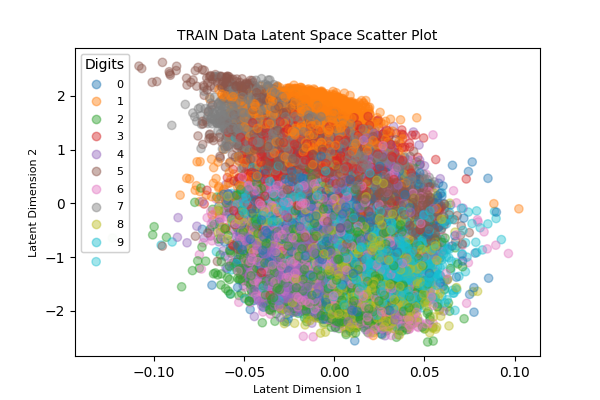
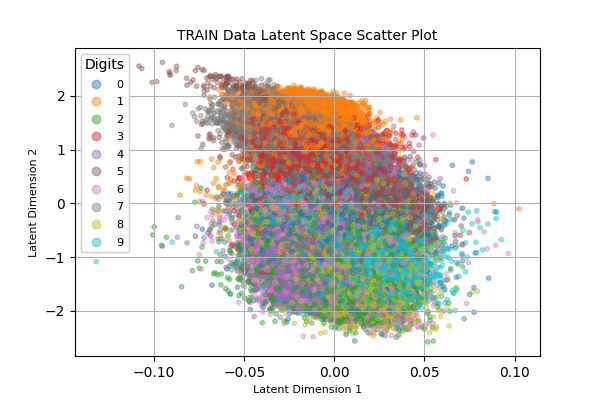
software prompting

diff --git a/source/ch6-llm/tuning/soft_prompting/train.py b/source/ch6-llm/tuning/soft_prompting/train.py
@@ -1,0 +1,149 @@
+import torch
+from torch.optim import Adam
+from datasets import load_dataset
+import matplotlib.pyplot as plt
+from model import SoftPromptTuning
+import os
+from tqdm import tqdm
+
+def save_checkpoint(model, optimizer, epoch, loss, filepath='best.pt'):
+    state = {
+        'epoch': epoch,
+        'model_state_dict': model.state_dict(),
+        'optimizer_state_dict': optimizer.state_dict(),
+        'loss': loss,
+    }
+    torch.save(state, filepath)
+
+
+def load_checkpoint(filepath='best.pt'):
+    if os.path.isfile(filepath):
+        checkpoint = torch.load(filepath)
+        return checkpoint
+    else:
+        return None
+
+
+def train(model, train_dataset, val_dataset, epochs=3, lr=5e-5, checkpoint_path='best.pt', patience=3):
+    optimizer = Adam([model.soft_prompt_embeddings], lr=lr)
+    criterion = torch.nn.CrossEntropyLoss()
+
+    # Load checkpoint if it exists
+    checkpoint = load_checkpoint(checkpoint_path)
+    start_epoch = 0
+    best_val_loss = float('inf')
+    patience_counter = 0
+    if checkpoint:
+        model.load_state_dict(checkpoint['model_state_dict'])
+        optimizer.load_state_dict(checkpoint['optimizer_state_dict'])
+        start_epoch = checkpoint['epoch'] + 1
+        best_val_loss = checkpoint['loss']
+
+    train_losses = []
+    val_losses = []
+
+    for epoch in tqdm(range(start_epoch, epochs), desc="Training Epochs"):
+        model.train()
+        epoch_train_loss = 0
+        for batch in train_dataset:
+            inputs = model.tokenizer(batch['context'], return_tensors='pt', padding=True, truncation=True)
+            labels = model.tokenizer(batch['answers']['text'][0], return_tensors='pt', padding=True,
+                                     truncation=True).input_ids
+
+            optimizer.zero_grad()
+            outputs = model(inputs.input_ids, attention_mask=inputs.attention_mask)
+            logits = outputs.logits[:, model.soft_prompt_len:-1, :].contiguous()
+
+            # Ensure the logits and labels have the same shape
+            logits = logits.view(-1, logits.size(-1))
+            labels = labels.view(-1)
+
+            # Ensure labels and logits have the same length
+            if logits.size(0) != labels.size(0):
+                min_size = min(logits.size(0), labels.size(0))
+                logits = logits[:min_size]
+                labels = labels[:min_size]
+
+            loss = criterion(logits, labels)
+
+            loss.backward()
+            optimizer.step()
+
+            epoch_train_loss += loss.item()
+
+        epoch_train_loss /= len(train_dataset)
+        train_losses.append(epoch_train_loss)
+
+        # Validation
+        model.eval()
+        epoch_val_loss = 0
+        with torch.no_grad():
+            for batch in val_dataset:
+                inputs = model.tokenizer(batch['context'], return_tensors='pt', padding=True, truncation=True)
+                labels = model.tokenizer(batch['answers']['text'][0], return_tensors='pt', padding=True,
+                                         truncation=True).input_ids
+
+                outputs = model(inputs.input_ids, attention_mask=inputs.attention_mask)
+                logits = outputs.logits[:, model.soft_prompt_len:-1, :].contiguous()
+
+                # Ensure the logits and labels have the same shape
+                logits = logits.view(-1, logits.size(-1))
+                labels = labels.view(-1)
+
+                # Ensure labels and logits have the same length
+                if logits.size(0) != labels.size(0):
+                    min_size = min(logits.size(0), labels.size(0))
+                    logits = logits[:min_size]
+                    labels = labels[:min_size]
+
+                loss = criterion(logits, labels)
+
+                epoch_val_loss += loss.item()
+
+        epoch_val_loss /= len(val_dataset)
+        val_losses.append(epoch_val_loss)
+
+        print(f"Epoch: {epoch + 1}, Train Loss: {epoch_train_loss}, Val Loss: {epoch_val_loss}")
+
+        # Checkpoint saving
+        if epoch_val_loss < best_val_loss:
+            best_val_loss = epoch_val_loss
+            save_checkpoint(model, optimizer, epoch, best_val_loss, checkpoint_path)
+            patience_counter = 0
+        else:
+            patience_counter += 1
+
+        # Early stopping
+        if patience_counter >= patience:
+            print("Early stopping triggered")
+            break
+
+    # Plotting learning curves
+    plt.figure()
+    plt.plot(train_losses, label='Train Loss')
+    plt.plot(val_losses, label='Validation Loss')
+    plt.xlabel('Epoch')
+    plt.ylabel('Loss')
+    plt.legend()
+    plt.show()
+
+
+# Example usage
+def main():
+    model = SoftPromptTuning()
+
+    # Add a new pad_token to the tokenizer
+    model.tokenizer.add_special_tokens({'pad_token': '[PAD]'})
+    model.model.resize_token_embeddings(len(model.tokenizer))
+
+    # Load SQuAD dataset
+    squad = load_dataset('squad')
+    train_data = squad['train']
+    val_data = squad['validation']
+
+    # Training loop
+    train(model, train_data, val_data)
+
+
+if __name__ == "__main__":
+    main()

diff --git a/source/ch3-vae/vae/torch/vae_infer.py b/source/ch3-vae/vae/torch/vae_infer.py
@@ -10,6 +10,8 @@ torch.manual_seed(0)
 
 here = os.path.abspath(os.path.dirname(__file__))
 
+classes = ['T-shirt/top', 'Trouser', 'Pullover', 'Dress', 'Coat',
+           'Sandal', 'Shirt', 'Sneaker', 'Bag', 'Ankle boot']
 def load_checkpoint(filepath, device):
     checkpoint = torch.load(filepath, map_location=device)
     model = VariationalAutoencoder(checkpoint['codings_size']).to(device)
@@ -100,16 +102,58 @@ def plot_latent_space(model, dataloader, data_name, device):
     all_labels = torch.cat(all_labels)
 
     plt.figure(figsize=(6, 4))
-    scatter = plt.scatter(all_mean[:, 0].numpy(), all_mean[:, 1].numpy(), c=all_labels.numpy(), cmap='tab10', alpha=0.4)
-    legend1 = plt.legend(*scatter.legend_elements(), title="Digits", fontsize=8)
+    x = all_mean[:, 0].numpy()
+    y = all_mean[:, 1].numpy()
+    scatter = plt.scatter(x, y, c=all_labels.numpy(), cmap='tab10', alpha=0.4, s=10)
+    legend1 = plt.legend(*scatter.legend_elements(), title="Cat", fontsize=8)
     plt.gca().add_artist(legend1)
     plt.xlabel('Latent Dimension 1', fontsize=8)
     plt.ylabel('Latent Dimension 2', fontsize=8)
     plt.title(f'{data_name.upper()} Data Latent Space Scatter Plot', fontsize=10)
+    plt.grid(True, which='both')
     plt.savefig(os.path.join(here, f'latent_space_scatter_{data_name}.png'))
     plt.show()
 
     return all_mean
+
+from sklearn.manifold import TSNE
+
+def plot_latent_space_tsne(model, dataloader, data_name, device):
+    model.eval()
+    all_mean = []
+    all_labels = []
+    with torch.no_grad():
+        for data, labels in dataloader:
+            data = data.to(device)  # Move data to the correct device
+            mean, logvar = model.encoder(data)
+            all_mean.append(mean.cpu())  # Move mean to CPU
+            all_labels.append(labels.cpu())  # Move labels to CPU
+
+    all_mean = torch.cat(all_mean)
+    all_labels = torch.cat(all_labels)
+
+    # Apply t-SNE to reduce the dimensionality to 2
+    tsne = TSNE(n_components=2, random_state=42)
+    all_mean_2d = tsne.fit_transform(all_mean)
+
+    # Plot the t-SNE result
+    plt.figure(figsize=(8, 6))
+    x = all_mean_2d[:, 0]
+    y = all_mean_2d[:, 1]
+    scatter = plt.scatter(x, y, c=all_labels.numpy(), cmap='tab10', alpha=0.4, s=10)
+    legend1 = plt.legend(*scatter.legend_elements(), title="Cat", fontsize=8)
+    plt.gca().add_artist(legend1)
+    plt.xlabel('t-SNE Dimension 1', fontsize=8)
+    plt.ylabel('t-SNE Dimension 2', fontsize=8)
+    plt.title(f'{data_name.upper()} Data Latent Space (t-SNE) Scatter Plot', fontsize=10)
+    plt.grid(True, which='both')
+    plt.savefig(os.path.join(here, f'latent_space_tsne_{data_name}.png'))
+    plt.show()
+
+    return all_mean
+
+# Example call (to be placed in your main function or where appropriate):
+# latent_vectors = plot_latent_space_tsne(model, valid_loader, 'mnist', device)
 
 
 def main(args):
@@ -125,6 +169,8 @@ def main(args):
 
     # Plot histograms of latent dimensions
     plot_histograms(latent_vectors_train)
+
+    plot_latent_space_tsne(model, valid_loader, 'valid', device)
 
 if __name__ == "__main__":
     parser = argparse.ArgumentParser(description="Generate images with a trained Variational Autoencoder")

diff --git a/source/ch6-llm/tuning/soft_prompting/eval.py b/source/ch6-llm/tuning/soft_prompting/eval.py
@@ -1,0 +1,80 @@
+from datasets import load_dataset
+import torch
+from tqdm import tqdm
+from soft_prompting_training import load_checkpoint
+import numpy as np
+from model import SoftPromptTuning
+
+# Load SQuAD dataset
+squad = load_dataset('squad')
+val_data = squad['validation']
+
+
+def evaluate(model, val_data):
+    em_scores = []
+    f1_scores = []
+
+    for sample in tqdm(val_data, desc="Evaluating"):
+        context = sample['context']
+        question = sample['question']
+        true_answer = sample['answers']['text'][0]
+
+        input_text = question + " " + context
+        input_ids = model.tokenizer(input_text, return_tensors='pt').input_ids
+
+        with torch.no_grad():
+            outputs = model(input_ids)
+            logits = outputs.logits[:, model.soft_prompt_len:, :]
+            predicted_ids = torch.argmax(logits, dim=-1).squeeze().tolist()
+            predicted_text = model.tokenizer.decode(predicted_ids, skip_special_tokens=True)
+
+        # Compute EM and F1
+        em = compute_exact_match(predicted_text, true_answer)
+        f1 = compute_f1(predicted_text, true_answer)
+
+        em_scores.append(em)
+        f1_scores.append(f1)
+
+    avg_em = np.mean(em_scores)
+    avg_f1 = np.mean(f1_scores)
+
+    return avg_em, avg_f1
+
+
+def compute_exact_match(pred, truth):
+    return int(pred.strip() == truth.strip())
+
+
+def compute_f1(pred, truth):
+    pred_tokens = pred.split()
+    truth_tokens = truth.split()
+    common = set(pred_tokens) & set(truth_tokens)
+    if not common:
+        return 0
+    precision = len(common) / len(pred_tokens)
+    recall = len(common) / len(truth_tokens)
+    f1 = 2 * (precision * recall) / (precision + recall)
+    return f1
+
+
+def main():
+    model = SoftPromptTuning()
+
+    # Add a new pad_token to the tokenizer
+    model.tokenizer.add_special_tokens({'pad_token': '[PAD]'})
+    model.model.resize_token_embeddings(len(model.tokenizer))
+
+    # Load model from the best checkpoint
+    model = load_checkpoint(model, checkpoint_path='best.pt')
+
+    # Load the validation data
+    val_data = squad['validation']
+
+    # Perform evaluation
+    avg_em, avg_f1 = evaluate(model, val_data)
+    print(f"Exact Match (EM): {avg_em:.4f}")
+    print(f"F1 Score: {avg_f1:.4f}")
+
+
+if __name__ == "__main__":
+    main()

diff --git a/source/ch3-vae/vae/torch/demo_fashion_mnist.py b/source/ch3-vae/vae/torch/demo_fashion_mnist.py
@@ -1,0 +1,44 @@
+import os
+import torch
+from torchvision import datasets, transforms
+import matplotlib.pyplot as plt
+import numpy as np
+import torchvision
+torch.manual_seed(0)
+here = os.path.abspath(os.path.dirname(__file__))
+
+# Define the class names
+classes = ['T-shirt/top', 'Trouser', 'Pullover', 'Dress', 'Coat',
+           'Sandal', 'Shirt', 'Sneaker', 'Bag', 'Ankle boot']
+
+# Define a transform to normalize the data
+transform = transforms.Compose([
+    transforms.ToTensor(),
+    transforms.Normalize((0.5,), (0.5,))  # Normalize the data to [-1, 1]
+])
+
+# Download and load the training data
+trainset = datasets.FashionMNIST(root=f'{here}/data', train=True, download=True, transform=transform)
+trainloader = torch.utils.data.DataLoader(trainset, batch_size=64, shuffle=True)
+
+# Download and load the test data
+testset = datasets.FashionMNIST(root=f'{here}/data', train=False, download=True, transform=transform)
+testloader = torch.utils.data.DataLoader(testset, batch_size=64, shuffle=False)
+
+# Get a batch of training data
+dataiter = iter(trainloader)
+images, labels = next(dataiter)  # Use the built-in next function
+
+# Function to show an image
+def imshow(img):
+    img = img / 2 + 0.5  # Unnormalize
+    npimg = img.numpy()
+    plt.imshow(np.transpose(npimg, (1, 2, 0)))
+    plt.grid(False)
+    plt.savefig("fashion_mnist_demo.png")
+    plt.show()
+
+# Show images
+imshow(torchvision.utils.make_grid(images))
+# Print labels
+print(','.join('%5s' % classes[labels[j]] for j in range(8)))

diff --git a/source/ch6-llm/tuning/soft_prompting/model.py b/source/ch6-llm/tuning/soft_prompting/model.py
@@ -1,0 +1,30 @@
+import torch
+from transformers import GPT2LMHeadModel, GPT2Tokenizer
+
+
+class SoftPromptTuning(torch.nn.Module):
+    def __init__(self, model_name='gpt2', soft_prompt_len=10):
+        super(SoftPromptTuning, self).__init__()
+        self.model = GPT2LMHeadModel.from_pretrained(model_name)
+        self.tokenizer = GPT2Tokenizer.from_pretrained(model_name)
+
+        # Initialize soft prompts
+        self.soft_prompt_len = soft_prompt_len
+        self.soft_prompt_embeddings = torch.nn.Parameter(torch.randn(soft_prompt_len, self.model.config.n_embd))
+
+    def forward(self, input_ids, attention_mask=None):
+        # Get embeddings for input ids
+        input_embeddings = self.model.transformer.wte(input_ids)
+
+        # Concatenate soft prompts to the input embeddings
+        soft_prompt_embeddings = self.soft_prompt_embeddings.unsqueeze(0).expand(input_embeddings.size(0), -1, -1)
+        inputs_embeds = torch.cat((soft_prompt_embeddings, input_embeddings), dim=1)
+
+        # Adjust attention mask
+        if attention_mask is not None:
+            soft_prompt_mask = torch.ones((attention_mask.size(0), self.soft_prompt_len), device=attention_mask.device)
+            attention_mask = torch.cat((soft_prompt_mask, attention_mask), dim=1)
+
+        # Forward pass through the model
+        outputs = self.model(inputs_embeds=inputs_embeds, attention_mask=attention_mask)
+        return outputs
